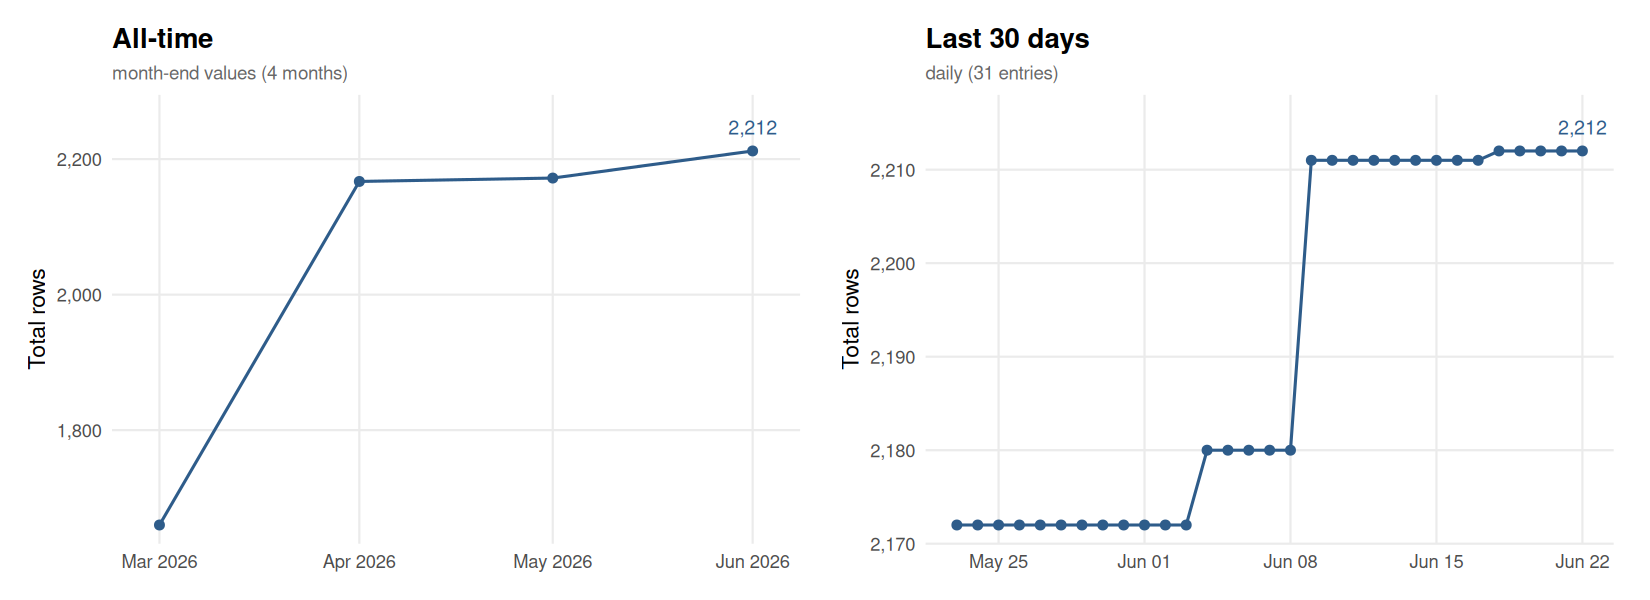
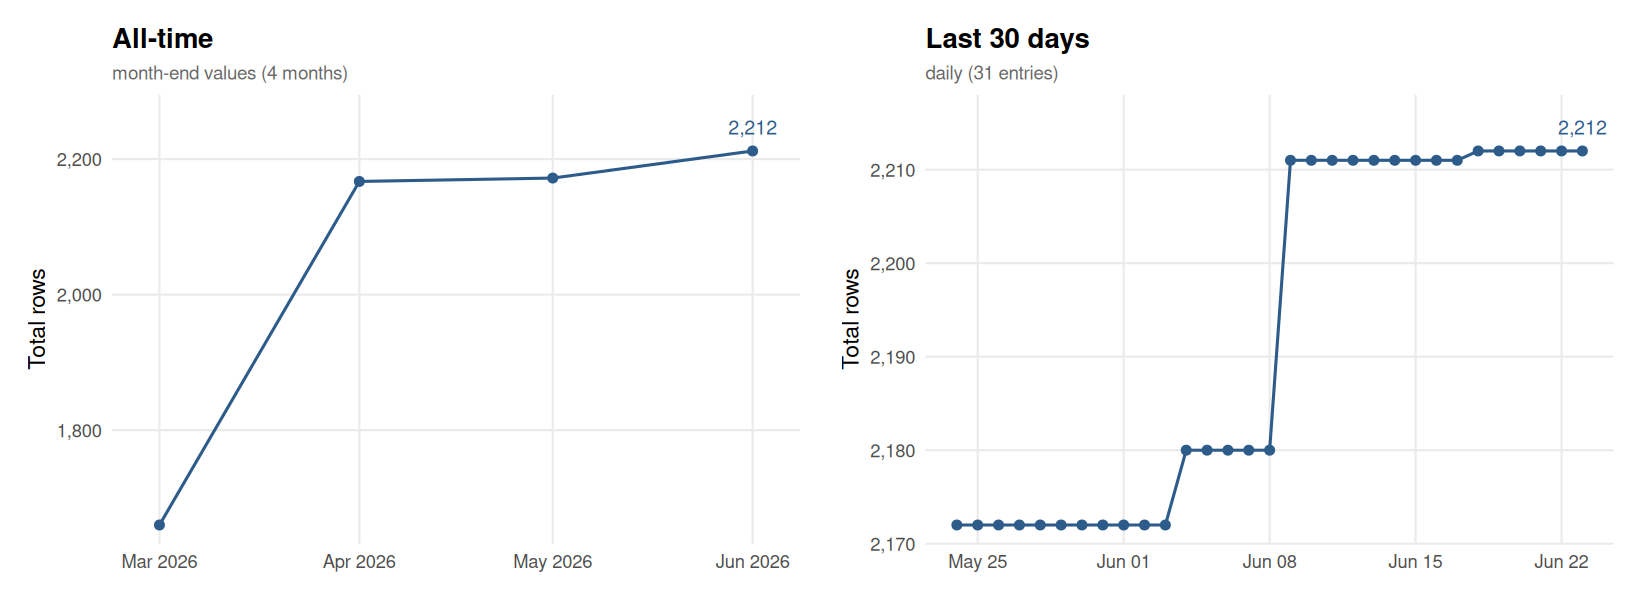
Update flora.csv [automated]

diff --git a/README.md b/README.md
@@ -438,14 +438,15 @@ For API issues:
 This chart is automatically updated after each pipeline run, showing the size of `output/flora.csv` over time.
 
 <!-- FLORA_UPDATE_LOG_START -->
-> **Latest (2026-06-22):** Total = 2,212 | Replications = 2,203 | Reproductions = 9
+> **Latest (2026-06-23):** Total = 2,212 | Replications = 2,203 | Reproductions = 9
 
 ![FLoRA dataset size over time](output/flora_history.png)
 
-<details><summary>Full history (95 entries)</summary>
+<details><summary>Full history (96 entries)</summary>
 
 | Date | Total | Replications | Reproductions |
 |------|------:|-------------:|--------------:|
+| 2026-06-23 | 2212 | 2203 | 9 |
 | 2026-06-22 | 2212 | 2203 | 9 |
 | 2026-06-21 | 2212 | 2203 | 9 |
 | 2026-06-20 | 2212 | 2203 | 9 |
